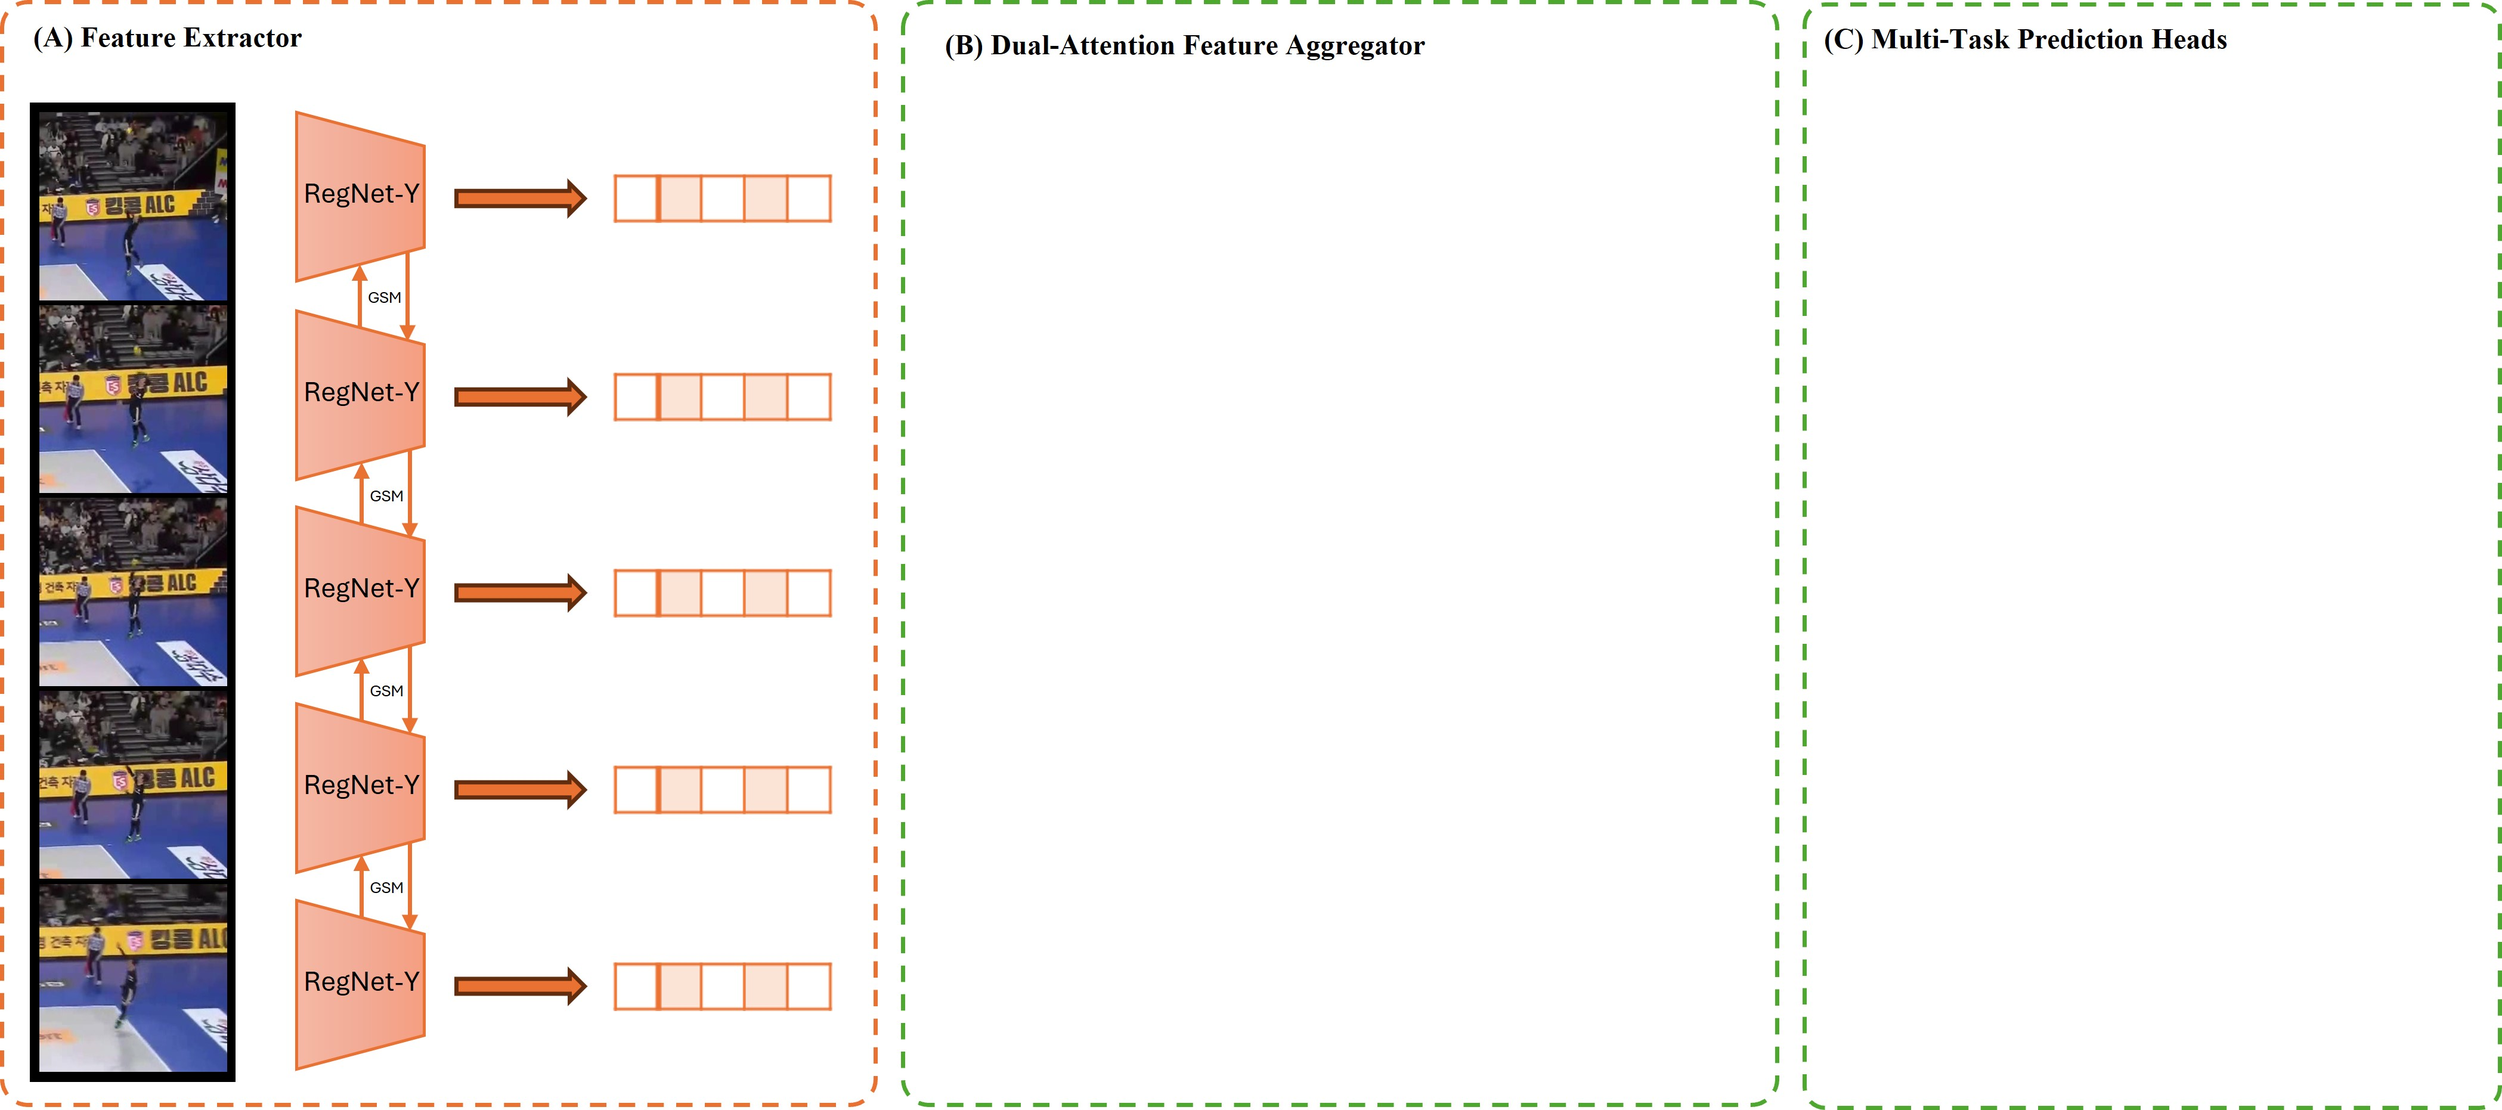
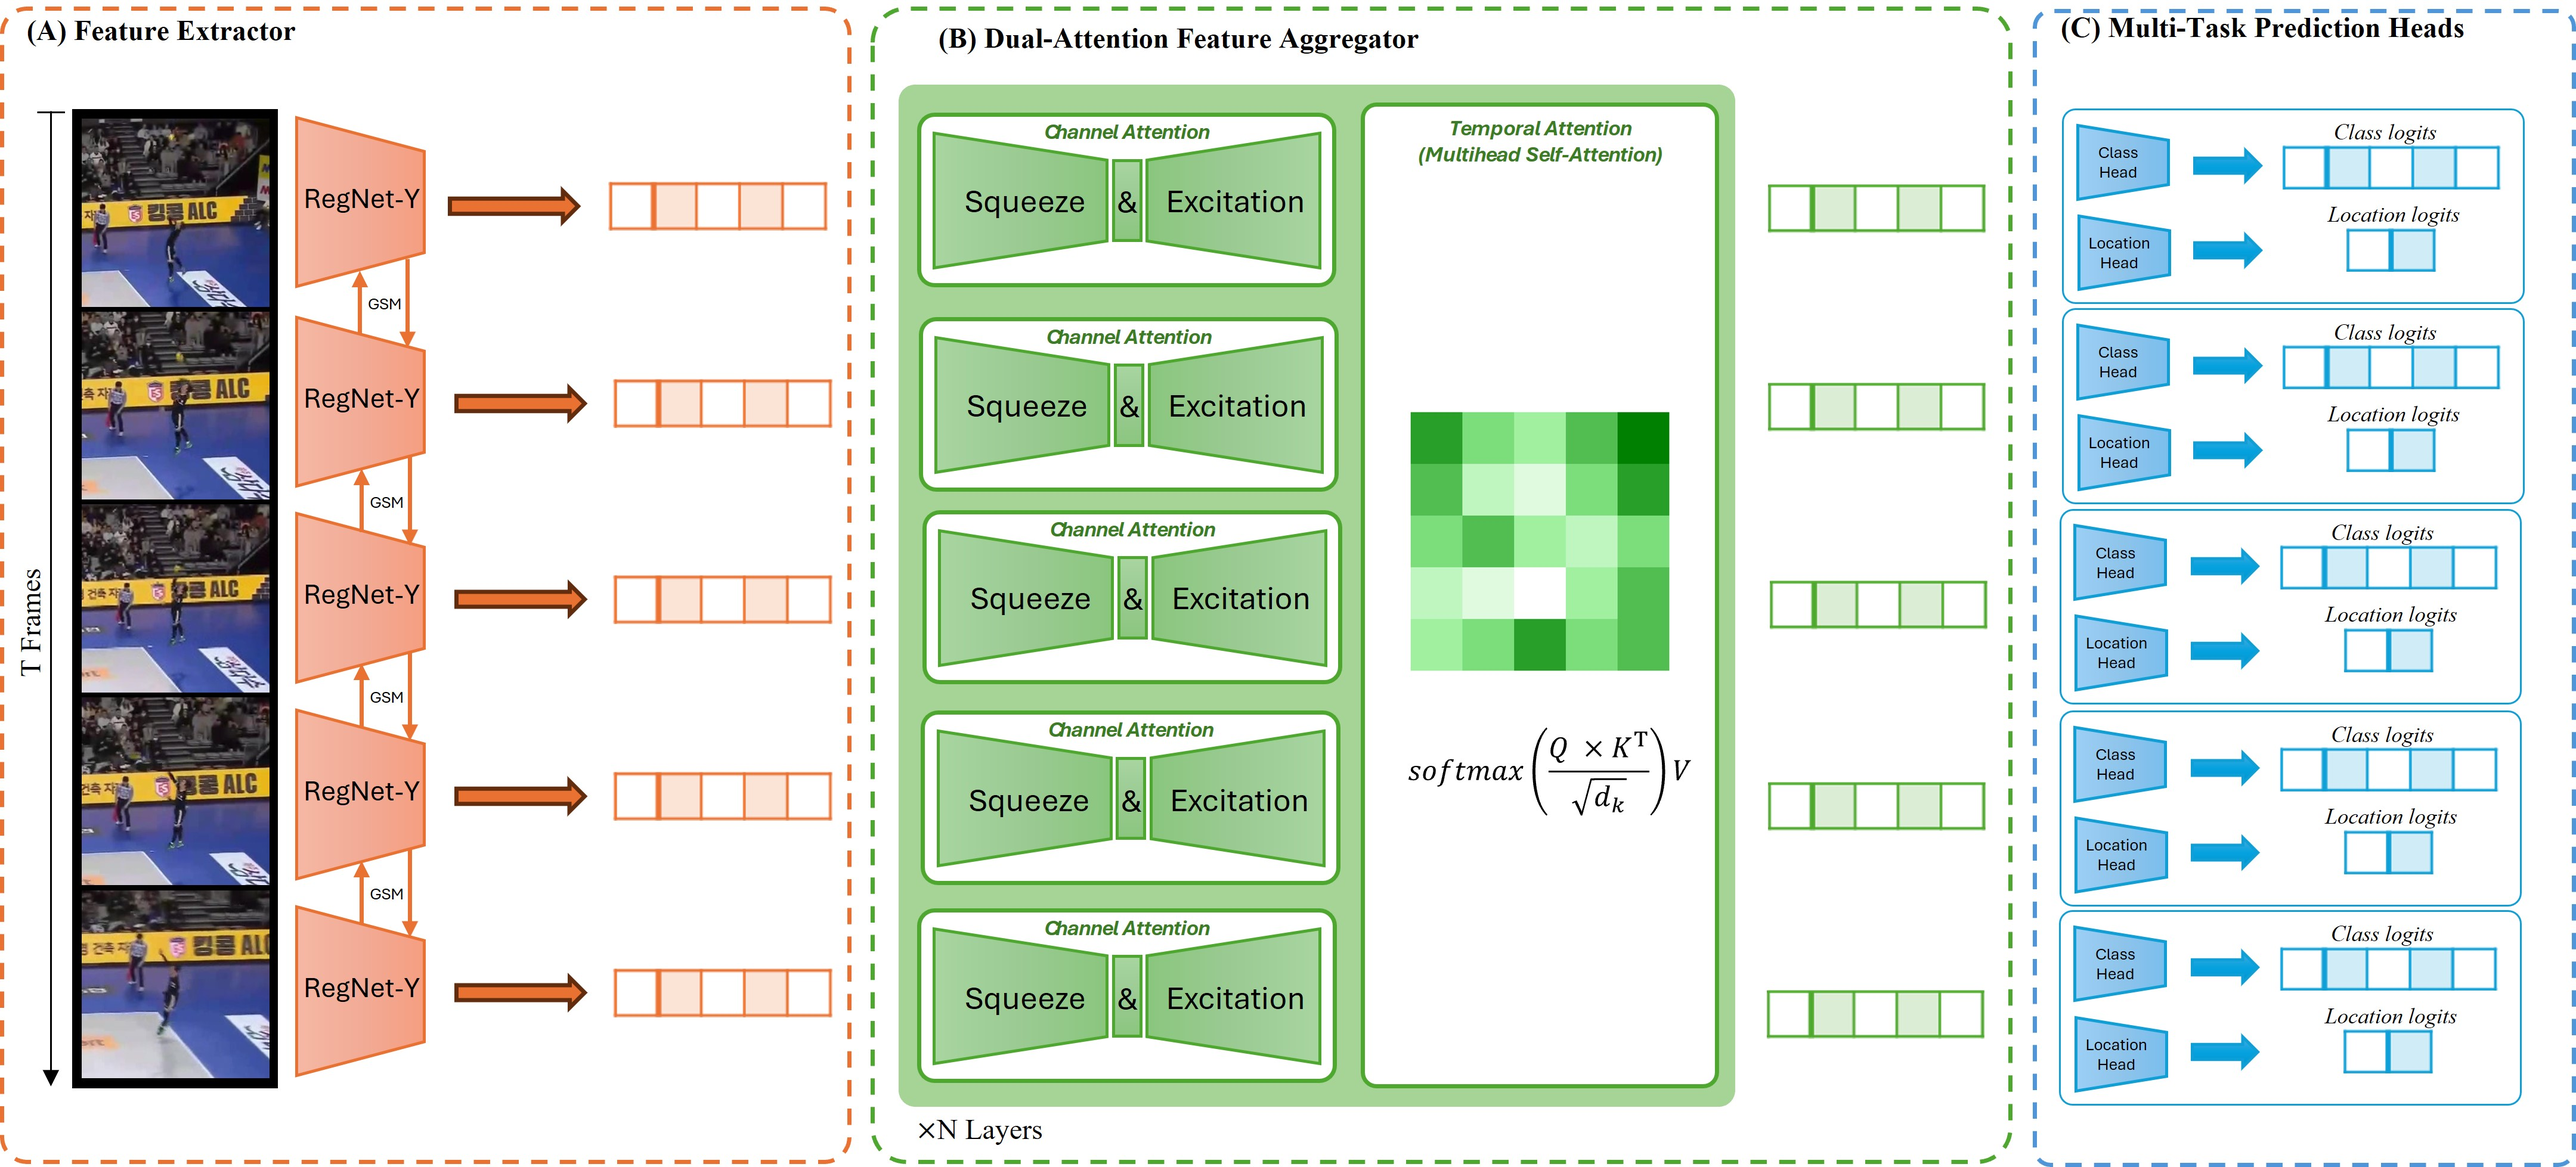
full model arch diagram

diff --git a/paper.tex b/paper.tex
@@ -103,7 +103,7 @@ Our best model achieves a temporal mAP of 90.59, a spatial mAP of 77.94, and a c
 
 
 \section{Related work}
-
+% TODO: Can write about Squeeze Ex and Multihead attention and their use in video understanding instead of TAL, etc... (or at least shorten them)
 \subsection{Video Classification}
 
 Video classification aims to predict a single label for an entire video, in contrast to event spotting, which requires precise frame-level labeling. This distinction introduces unique challenges: video classification can leverage sparse frame sampling \cite{tsn}, whereas event spotting demands dense sampling to capture rapid changes in events. Additionally, classification models often employ global space-time pooling \cite{8578773} or temporal consensus \cite{zhou2018temporalrelationalreasoningvideos} to produce video-level predictions, while event spotting necessitates preserving high temporal resolution.
@@ -212,8 +212,7 @@ To effectively learn spatio-temporal features, we propose a multi-task deep lear
 \begin{figure*} 
     \centering
     \includegraphics[width=\textwidth]{figures/fig-arch.jpg}
-    \caption{Model architecture.}
-    \label{fig-arch}
+    \caption{Illustration of DMTN Architecture Comprising Three Key Components: (1) \textbf{Feature Extractor} that processes each frame through RegNet-Y with Gate Shift Modules (GSM) to capture both spatial and temporal information; (2) \textbf{Dual-Attention Feature Aggregator} that combines Channel Attention and Temporal Attention mechanisms to integrate local and global spatio-temporal features, enhancing the model’s ability to capture subtle event dynamics; and (3) \textbf{Multi-Task Prediction Heads} that output per-frame classifications and spatial coordinates, enabling precise spatio-temporal event spotting for volleyball gameplay analysis.}    \label{fig-arch}
 \end{figure*}
 
 
